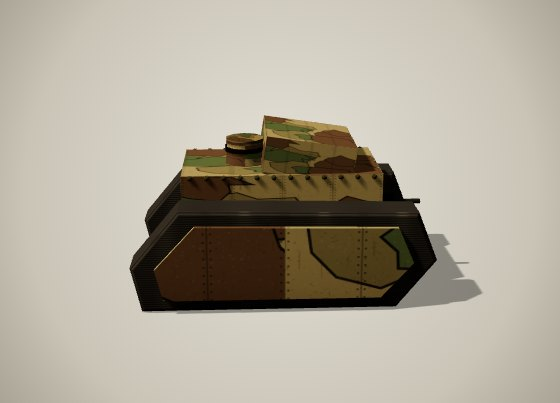
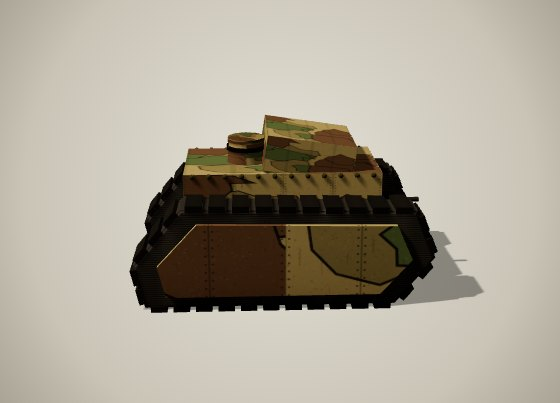
Track shoes on all tanks, olive British paint, first real WWI photos on cards (credited)
Claude-Session: https://claude.ai/code/session_01AACF85bDzBfQbv9Z2xePY7

diff --git a/docs/ww1/render3d.js b/docs/ww1/render3d.js
@@ -142,7 +142,7 @@ function horseLegGeo() { return geoCache.hleg || (geoCache.hleg = merge([box(1.2
 // ---------- الدبابات: موديلات مفصّلة (جنازير وعجل ومسامير وتمويه حسب الدولة) ----------
 const PAINT = {
   DE: { base: '#a8935c', blots: ['#5f6b3c', '#6e4f32', '#8a7a48'], lines: true },
-  UK: { base: '#6e5b3e', blots: ['#5c4c33', '#7a6646'], lines: false },
+  UK: { base: '#727046', blots: ['#5f6040', '#837a50', '#6a5c3e'], lines: false },
   FR: { base: '#8b8556', blots: ['#4f5a36', '#7a5a3a', '#b29a62'], lines: true },
   US: { base: '#6a6a48', blots: ['#55553a'], lines: false },
 };
@@ -205,9 +205,23 @@ function belt(b, L, H, z, y0, w = 3.6) {
   const s = new THREE.Shape(), r = H / 2; s.moveTo(-L / 2 + r, 0); s.lineTo(L / 2 - r, 0); s.absarc(L / 2 - r, r, r, -Math.PI / 2, Math.PI / 2); s.lineTo(-L / 2 + r, H); s.absarc(-L / 2 + r, r, r, Math.PI / 2, Math.PI * 1.5);
   const g = new THREE.ExtrudeGeometry(s, { depth: w, bevelEnabled: false, curveSegments: 10 }); g.translate(0, y0, z - w / 2); scaleUV(g, 0.12, 0.25);
   b.track.push(prep(g, W));
+  shoes(b, stadium(L, H, y0), z, w, 2);
 }
+// نعال الجنزير: قطع صغيرة على محيط الجنزير كله زي الدبابات الحقيقية
+function shoes(b, pts, z, w, step = 2.3) {
+  const n = pts.length; let cx = 0, cy = 0; pts.forEach(([x, y]) => { cx += x; cy += y; }); cx /= n; cy /= n;
+  for (let i = 0; i < n; i++) {
+    const [x1, y1] = pts[i], [x2, y2] = pts[(i + 1) % n], L = Math.hypot(x2 - x1, y2 - y1), a = Math.atan2(y2 - y1, x2 - x1);
+    let nx = -Math.sin(a), ny = Math.cos(a); const mx = (x1 + x2) / 2, my = (y1 + y2) / 2; if ((mx - cx) * nx + (my - cy) * ny < 0) { nx = -nx; ny = -ny; }
+    const k = Math.max(1, Math.floor(L / step));
+    for (let j = 0; j < k; j++) { const t = (j + 0.5) / k, x = x1 + (x2 - x1) * t + nx * 0.45, y = y1 + (y2 - y1) * t + ny * 0.45;
+      b.track.push(box(step * 0.78, 0.75, w + 0.9, j % 2 ? 0x8a8478 : 0x9a9488, x, y, z, 0, 0, a)); }
+  }
+}
+function stadium(L, H, y0, seg = 6) { const r = H / 2, p = []; for (let i = 0; i <= seg; i++) { const a = -Math.PI / 2 + i / seg * Math.PI; p.push([L / 2 - r + Math.cos(a) * r, y0 + r + Math.sin(a) * r]); } for (let i = 0; i <= seg; i++) { const a = Math.PI / 2 + i / seg * Math.PI; p.push([-L / 2 + r + Math.cos(a) * r, y0 + r + Math.sin(a) * r]); } return p; }
 function scaleUV(g, su, sv) { const uv = g.attributes.uv; for (let i = 0; i < uv.count; i++) uv.setXY(i, uv.getX(i) * su, uv.getY(i) * sv); }
 function rhombTrack(b, prof, z, w = 4) {
+  shoes(b, prof, z, w);
   const s = new THREE.Shape(); prof.forEach(([x, y], i) => i ? s.lineTo(x, y) : s.moveTo(x, y)); s.closePath();
   const g = new THREE.ExtrudeGeometry(s, { depth: w, bevelEnabled: true, bevelSize: 0.4, bevelThickness: 0.4, bevelSegments: 1 }); g.translate(0, 0, z - w / 2); scaleUV(g, 0.12, 0.25);
   b.track.push(prep(g, W));

diff --git a/docs/ww1/cardart.js b/docs/ww1/cardart.js
@@ -63,5 +63,61 @@ const PHOTOS = {
 "howitzer": {
 "f": "img/cards/howitzer.jpg",
 "r": 1
+},
+"poilu": {
+"f": "img/cards/poilu.jpg",
+"t": "French soldiers of the 87th Regiment shelter in their trenches at Hill",
+"a": "French photographer",
+"l": "Public domain",
+"p": "https://commons.wikimedia.org/wiki/File:French_soldiers_of_the_87th_Regiment_shelter_in_their_trenches_at_Hill_304_at_Verdun.jpg"
+},
+"arditi": {
+"f": "img/cards/arditi.jpg",
+"t": "Italian Arditi",
+"a": "An unknown serviceman of the Regio Esercito",
+"l": "Public domain",
+"p": "https://commons.wikimedia.org/wiki/File:Italian_Arditi.jpg"
+},
+"storm": {
+"f": "img/cards/storm.jpg",
+"t": "WWI German stormtroopers pulling field gun",
+"a": "Official Imperial War Museum German photographer",
+"l": "Public domain",
+"p": "https://commons.wikimedia.org/wiki/File:WWI_German_stormtroopers_pulling_field_gun.png"
+},
+"vickers": {
+"f": "img/cards/vickers.jpg",
+"t": "Vickers machine gun crew with gas masks",
+"a": "John Warwick Brooke",
+"l": "Public domain",
+"p": "https://commons.wikimedia.org/wiki/File:Vickers_machine_gun_crew_with_gas_masks.jpg"
+},
+"mg08": {
+"f": "img/cards/mg08.jpg",
+"t": "Boche machine gun crew captured with their gun (4687954103)",
+"a": "National Library of Scotland",
+"l": "No restrictions",
+"p": "https://commons.wikimedia.org/wiki/File:Boche_machine_gun_crew_captured_with_their_gun_(4687954103).jpg"
+},
+"lewis": {
+"f": "img/cards/lewis.jpg",
+"t": "British Lewis gun team Battle of Hazebrouck 1918 IWM Q 10902",
+"a": "Aitken T K (2nd Lt)",
+"l": "Public domain",
+"p": "https://commons.wikimedia.org/wiki/File:British_Lewis_gun_team_Battle_of_Hazebrouck_1918_IWM_Q_10902.jpg"
+},
+"atrifle": {
+"f": "img/cards/atrifle.jpg",
+"t": "Mauser Tank-Gewehr M1918",
+"a": "Rama",
+"l": "CC BY-SA 2.0 fr",
+"p": "https://commons.wikimedia.org/wiki/File:Mauser_Tank-Gewehr_M1918.jpg"
+},
+"flame": {
+"f": "img/cards/flame.jpg",
+"t": "French soldier with a flamethrower (c. 1916)",
+"a": "Unknown authorUnknown author",
+"l": "Public domain",
+"p": "https://commons.wikimedia.org/wiki/File:French_soldier_with_a_flamethrower_(c._1916).png"
 }
 };
